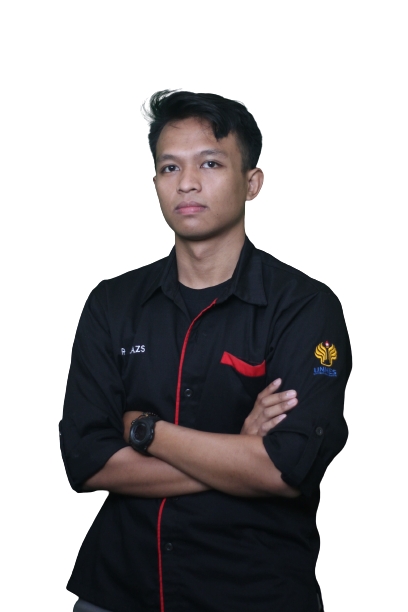
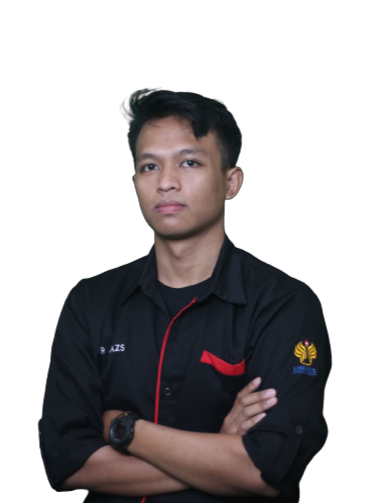
update foto + revsi container caption

Changed region(s): [[0.0875, 0.1193, 0.9045, 1.0], [0.2918, 0.5666, 0.3793, 0.5964]]

diff --git a/public/keanggotaan.css b/public/keanggotaan.css
@@ -155,14 +155,14 @@ body {
     margin-top:80px;
   }
   .img-container .img-caption{
-    padding:1px;
+    padding:12px;
   }
   .img-container .img-caption h4{
-    font-size:7px;
+    font-size:8px;
     margin-bottom:5px;
   }
-  .img-container .img-caption p{
-    font-size:7px;
+  .img-container .img-caption p{  
+    font-size:10px;
   }
   .list-divisi ul li a {
     font-size: 9px;
@@ -177,7 +177,7 @@ body {
     height: 150px;
   }
   .img-container .img-caption {
-    top: 125px;
+    top: 105px;
   }
   .img-caption h4, .img-caption p {
     font-size: 10px;
